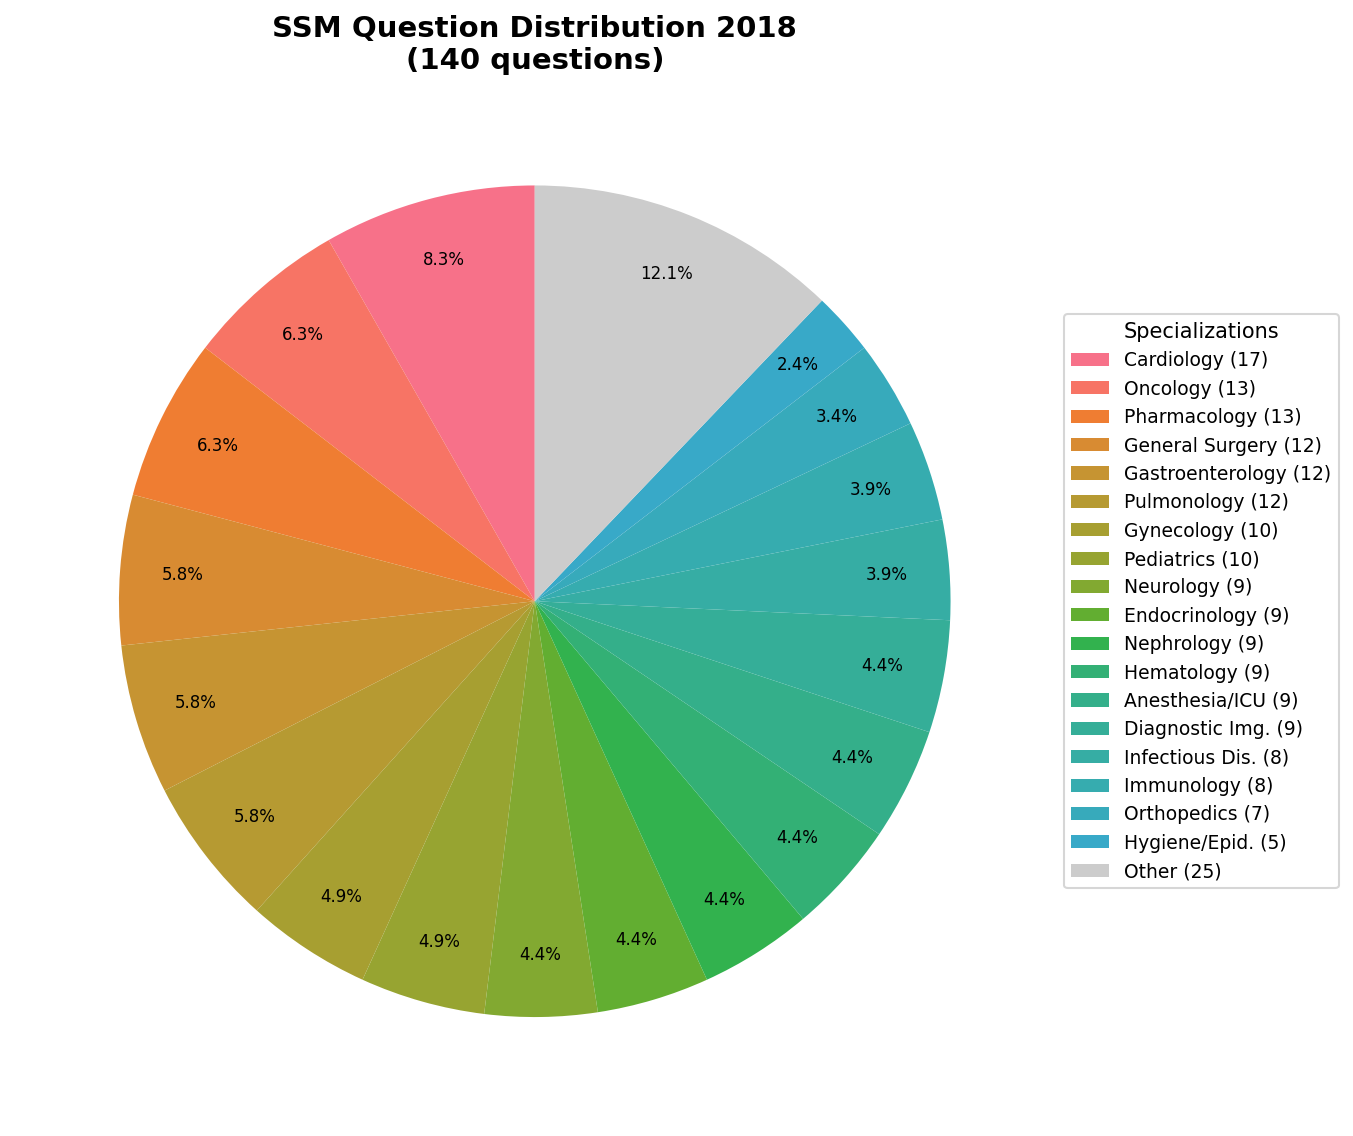
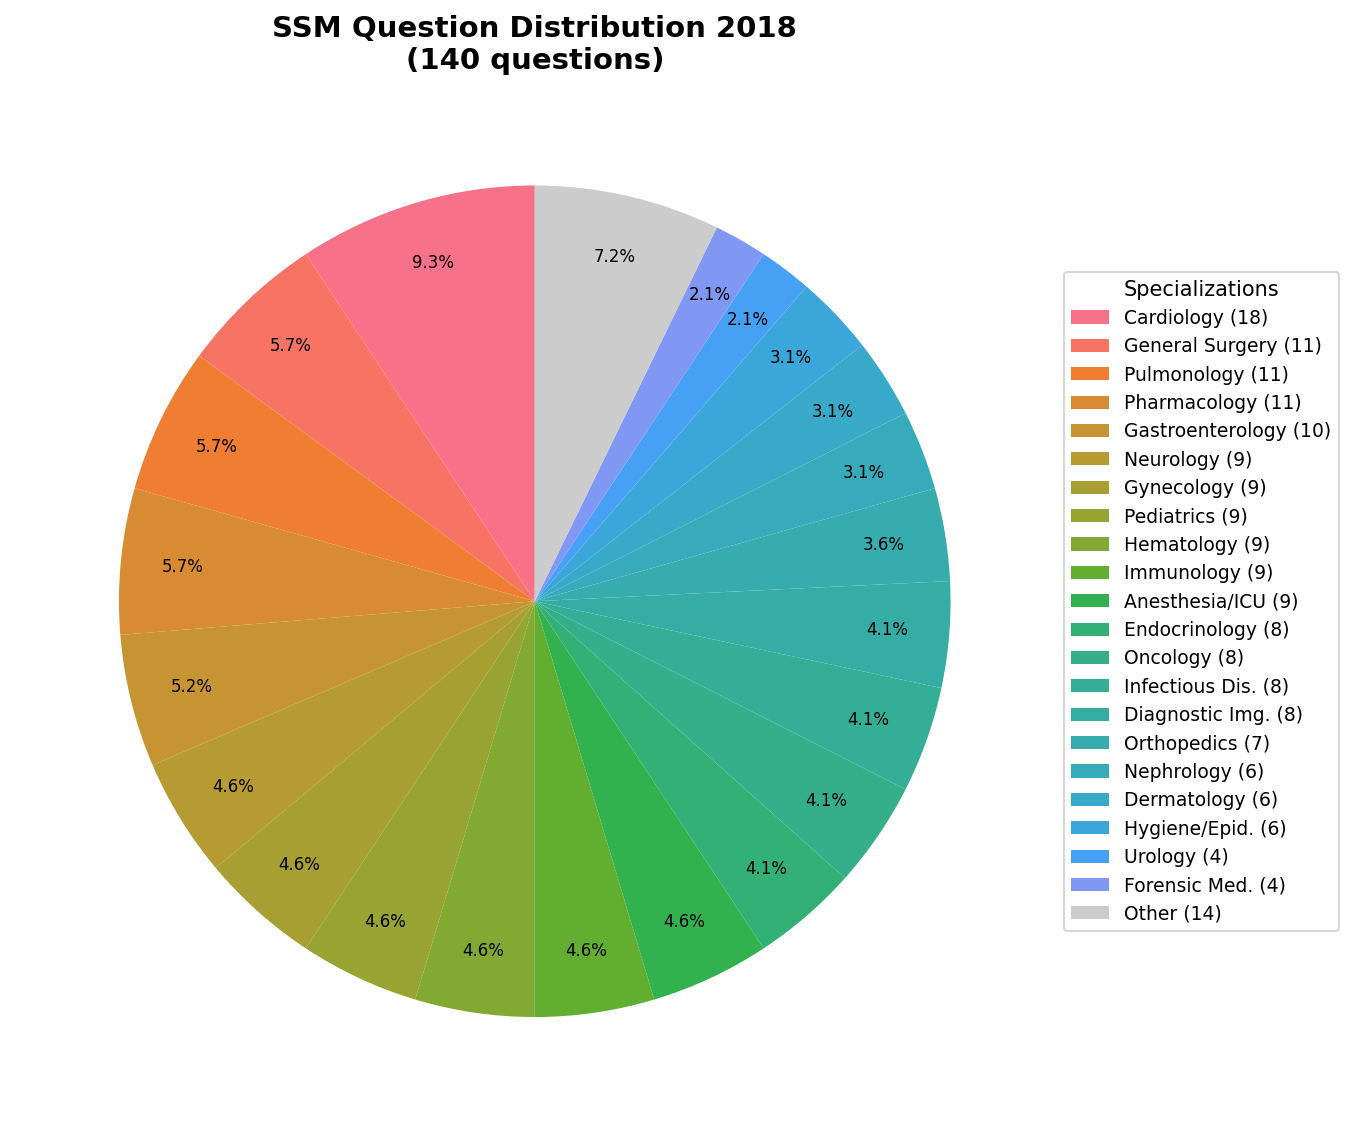
Regenerate all charts with final expert-validated categories
- All 28 charts regenerated from updated EN dataset
- New combined chart: distribution bar + multi/single specialty by year
- Added chart_combined_en.py and updated generate_all_en.py

diff --git a/Charts_EN/chart_combined_en.py b/Charts_EN/chart_combined_en.py
@@ -1,0 +1,147 @@
+"""
+Combined chart:
+  Top: Horizontal bar chart — aggregate question distribution by category
+  Bottom: Grouped bar chart — single vs multi-specialty questions by year
+"""
+
+import os
+import sys
+sys.path.insert(0, os.path.dirname(os.path.abspath(__file__)))
+
+import matplotlib.pyplot as plt
+import matplotlib.gridspec as gridspec
+import numpy as np
+from collections import Counter
+from chart_utils_en import (
+    load_all_classifications, get_all_distributions,
+    get_aggregate_distribution, CATEGORIES, PALETTE, YEARS,
+    short_label, save_figure
+)
+
+
+def plot_combined():
+    """Combined figure: distribution bar + multi/single specialty by year."""
+    all_data = load_all_classifications()
+    aggregate = get_aggregate_distribution()
+
+    # --- Data prep: aggregate distribution (sorted descending) ---
+    sorted_cats = sorted(CATEGORIES, key=lambda c: aggregate.get(c, 0), reverse=True)
+    sorted_cats = [c for c in sorted_cats if aggregate.get(c, 0) > 0]
+    cat_counts = [aggregate[c] for c in sorted_cats]
+    cat_labels = [short_label(c) for c in sorted_cats]
+    n_cats = len(sorted_cats)
+
+    # --- Data prep: multi vs single by year ---
+    years_available = sorted(all_data.keys())
+    single_vals = []
+    multi_vals = []
+    multi_pct = []
+    for year in years_available:
+        multi = 0
+        single = 0
+        for cat_str in all_data[year].values():
+            cats = [c.strip() for c in cat_str.split(";") if c.strip()]
+            if len(cats) > 1:
+                multi += 1
+            else:
+                single += 1
+        single_vals.append(single)
+        multi_vals.append(multi)
+        total = single + multi
+        multi_pct.append(multi / total * 100 if total else 0)
+
+    # --- Create figure with GridSpec ---
+    fig = plt.figure(figsize=(16, 14))
+    gs = gridspec.GridSpec(2, 1, height_ratios=[2.2, 1], hspace=0.30)
+
+    # ===== TOP: Horizontal bar chart =====
+    ax1 = fig.add_subplot(gs[0])
+
+    # Use a gradient colormap for visual appeal
+    cmap = plt.cm.YlOrRd
+    norm_vals = np.array(cat_counts) / max(cat_counts) if max(cat_counts) > 0 else np.zeros(n_cats)
+    bar_colors = [cmap(0.25 + 0.65 * v) for v in norm_vals]
+
+    y_pos = np.arange(n_cats)
+    bars = ax1.barh(y_pos, cat_counts, color=bar_colors, edgecolor='white', linewidth=0.5, height=0.75)
+
+    ax1.set_yticks(y_pos)
+    ax1.set_yticklabels(cat_labels, fontsize=10)
+    ax1.invert_yaxis()
+    ax1.set_xlabel("Number of Questions (across all years)", fontsize=11)
+    ax1.set_title("(a) Aggregate Question Distribution by Medical Specialty",
+                  fontsize=14, fontweight='bold', pad=12)
+
+    # Add count labels
+    max_val = max(cat_counts)
+    for i, (bar, val) in enumerate(zip(bars, cat_counts)):
+        pct = val / sum(cat_counts) * 100
+        if val > max_val * 0.15:
+            ax1.text(val - 1, i, f"{val}", ha='right', va='center',
+                     fontsize=9, fontweight='bold', color='white')
+            ax1.text(val + 1, i, f"({pct:.1f}%)", ha='left', va='center',
+                     fontsize=8, color='#444444')
+        else:
+            ax1.text(val + 1, i, f"{val} ({pct:.1f}%)", ha='left', va='center',
+                     fontsize=8, color='#444444')
+
+    ax1.set_xlim(0, max_val * 1.18)
+    ax1.spines['top'].set_visible(False)
+    ax1.spines['right'].set_visible(False)
+
+    # ===== BOTTOM: Grouped bar — single vs multi by year =====
+    ax2 = fig.add_subplot(gs[1])
+
+    x = np.arange(len(years_available))
+    width = 0.35
+
+    bars_s = ax2.bar(x - width/2, single_vals, width,
+                     label='Single-specialty', color='#2196F3',
+                     edgecolor='white', linewidth=0.5)
+    bars_m = ax2.bar(x + width/2, multi_vals, width,
+                     label='Multi-specialty', color='#FF5722',
+                     edgecolor='white', linewidth=0.5)
+
+    ax2.set_xlabel('Year', fontsize=11)
+    ax2.set_ylabel('Number of Questions', fontsize=11)
+    ax2.set_title('(b) Single-Specialty vs Multi-Specialty Questions by Year',
+                  fontsize=14, fontweight='bold', pad=12)
+    ax2.set_xticks(x)
+    ax2.set_xticklabels(years_available, fontsize=11)
+    ax2.legend(fontsize=11, loc='upper right')
+    ax2.set_ylim(0, 155)
+    ax2.spines['top'].set_visible(False)
+    ax2.spines['right'].set_visible(False)
+
+    # Add value labels on bars
+    for bar in bars_s:
+        h = bar.get_height()
+        ax2.text(bar.get_x() + bar.get_width()/2, h + 1, str(int(h)),
+                 ha='center', va='bottom', fontsize=9, color='#1565C0')
+    for bar in bars_m:
+        h = bar.get_height()
+        ax2.text(bar.get_x() + bar.get_width()/2, h + 1, str(int(h)),
+                 ha='center', va='bottom', fontsize=9, color='#BF360C')
+
+    # Add secondary y-axis for multi-specialty percentage
+    ax2b = ax2.twinx()
+    ax2b.plot(x, multi_pct, color='#FF5722', marker='D', linewidth=2,
+              markersize=6, linestyle='--', alpha=0.7, label='Multi-specialty %')
+    ax2b.set_ylabel('Multi-specialty (%)', fontsize=10, color='#BF360C')
+    ax2b.set_ylim(0, 100)
+    ax2b.tick_params(axis='y', labelcolor='#BF360C')
+    ax2b.spines['top'].set_visible(False)
+
+    # Annotate percentages
+    for xi, pct in zip(x, multi_pct):
+        ax2b.annotate(f"{pct:.0f}%", (xi, pct), textcoords="offset points",
+                      xytext=(0, 10), ha='center', fontsize=8, color='#BF360C',
+                      fontweight='bold')
+
+    save_figure(fig, "combined_distribution_chart.png")
+    print("  Combined chart generated successfully!")
+
+
+if __name__ == "__main__":
+    print("Generating combined distribution chart...")
+    plot_combined()

diff --git a/Charts_EN/generate_all_en.py b/Charts_EN/generate_all_en.py
@@ -11,13 +11,13 @@ print("=" * 50)
 print("GENERATING ALL SSM CHARTS (ENGLISH)")
 print("=" * 50)
 
-print("\n[1/3] Aggregate charts...")
+print("\n[1/4] Aggregate charts...")
 from chart_aggregate_en import plot_aggregate_pie, plot_aggregate_bar, plot_average_per_year_bar
 plot_aggregate_pie()
 plot_aggregate_bar()
 plot_average_per_year_bar()
 
-print("\n[2/3] Per-year charts...")
+print("\n[2/4] Per-year charts...")
 from chart_per_year_en import plot_year_pie, plot_year_bar
 from chart_utils_en import get_all_distributions, YEARS
 distributions = get_all_distributions()
@@ -27,7 +27,7 @@ for year in YEARS:
         plot_year_pie(year, distributions[year])
         plot_year_bar(year, distributions[year])
 
-print("\n[3/3] Advanced charts...")
+print("\n[3/4] Advanced charts...")
 from chart_advanced_en import (
     plot_heatmap, plot_stacked_bar, plot_trend_lines,
     plot_radar_comparison, plot_variability, plot_multi_specialty,
@@ -40,6 +40,10 @@ plot_radar_comparison()
 plot_variability()
 plot_multi_specialty()
 plot_percentage_evolution()
+
+print("\n[4/4] Combined chart...")
+from chart_combined_en import plot_combined
+plot_combined()
 
 print("\n" + "=" * 50)
 print("ALL ENGLISH CHARTS GENERATED SUCCESSFULLY!")
